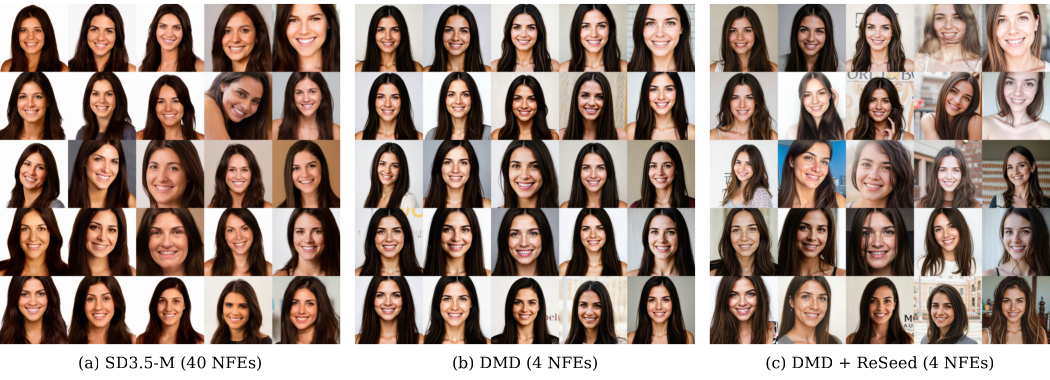
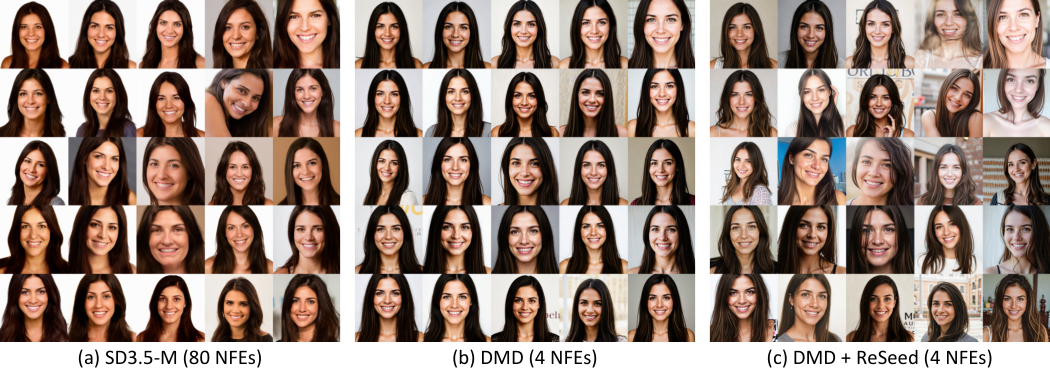
README: teaser labels the teacher as 80 NFEs, matching the paper

diff --git a/README.md b/README.md
@@ -5,7 +5,7 @@ first-step tiny bias adapter — no student retraining.**
 
 <p align="center">
   <img src="assets/teaser_diversity.png" width="100%"
-       alt="Same prompt, same 25 initial noises. (a) 40-step SD3.5-M teacher; (b) frozen 4-step DMD student collapses to near-identical faces; (c) DMD + ReSeed restores the variety.">
+       alt="Same prompt, same 25 initial noises. (a) SD3.5-M teacher, 40 steps (80 NFEs); (b) frozen 4-step DMD student collapses to near-identical faces; (c) DMD + ReSeed restores the variety.">
 </p>
 
 <p align="center"><em>Same prompt, same 25 initial noises. The 4-step DMD student (b) collapses to
